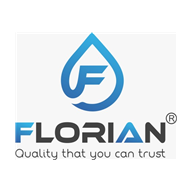
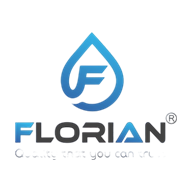
v5

diff --git a/src/components/brand/brand-mark.tsx b/src/components/brand/brand-mark.tsx
@@ -7,37 +7,27 @@ export function BrandMark({
   className,
   imageClassName,
   variant = "full",
-  tone = "default",
 }: {
   className?: string;
   imageClassName?: string;
   variant?: "full" | "mark" | "header";
-  /** Lockup sits on a light plate when the header behind it is dark. */
-  tone?: "default" | "onDark";
 }) {
   const isHeader = variant === "header";
   const isMark = variant === "mark";
-  const onDark = tone === "onDark";
 
   return (
     <div className={cn("flex min-w-0 items-center", className)}>
-      <div
-        className={cn(
-          "flex items-center justify-center",
-          onDark &&
-            "rounded-full bg-white p-2.5 shadow-[0_10px_28px_rgba(0,0,0,0.22)] ring-1 ring-white/80"
-        )}
-      >
+      <div className="flex items-center justify-center">
         {/* eslint-disable-next-line @next/next/no-img-element -- official PNG; skip Next image cache of the old generated mark */}
         <img
           src={logoSrc}
           alt={`${BRAND.name} logo`}
-          width={isHeader ? 44 : 1024}
-          height={isHeader ? 44 : 1024}
+          width={isHeader ? 71 : 358}
+          height={isHeader ? 56 : 283}
           className={cn(
             "object-contain",
             isHeader
-              ? "h-11 w-auto sm:h-12"
+              ? "h-14 w-auto"
               : isMark
                 ? "h-10 w-auto"
                 : "h-auto w-28 max-w-full sm:w-36",

diff --git a/src/lib/quotations/brand.ts b/src/lib/quotations/brand.ts
@@ -14,19 +14,19 @@ export const BRAND = {
   appName: "Florian — Quotations",
   poweredBy: "Powered by Dyzen Solar Technologies",
   logo: {
-    primary: "/brand/logo.jpeg",
-    width: 1024,
-    height: 1024,
-    icon: "/brand/logo.jpeg",
+    primary: "/brand/logo.png",
+    width: 358,
+    height: 283,
+    icon: "/brand/logo.png",
     iconWidth: 64,
-    iconHeight: 64,
-    login: "/brand/logo.jpeg",
-    loginWidth: 120,
-    loginHeight: 120,
-    watermark: "/brand/logo.jpeg",
+    iconHeight: 51,
+    login: "/brand/logo.png",
+    loginWidth: 144,
+    loginHeight: 114,
+    watermark: "/brand/logo.png",
     coverHome: "/brand/cover-home.jpg",
     nonSolarCover: "/brand/non-solar-cover.jpg",
-    paymentQr: "/brand/logo.jpeg",
+    paymentQr: "/brand/logo.png",
   },
   bank: {
     accountName: "FLORIAN",

diff --git a/src/components/brand/brand-watermark.tsx b/src/components/brand/brand-watermark.tsx
@@ -1,3 +1,5 @@
+import { BRAND } from "@/lib/brand";
+
 /** Centered page watermark — always visible behind UI chrome, hidden when printing. */
 export function BrandWatermark() {
   return (
@@ -7,7 +9,7 @@ export function BrandWatermark() {
     >
       {/* eslint-disable-next-line @next/next/no-img-element */}
       <img
-        src="/brand/logo.jpeg"
+        src={`${BRAND.logoPath}?v=${BRAND.logoCache}`}
         alt=""
         className="h-auto w-[min(72vw,36rem)] max-w-none select-none object-contain opacity-[0.04]"
         draggable={false}

diff --git a/src/lib/brand.ts b/src/lib/brand.ts
@@ -6,9 +6,9 @@ export const BRAND = {
   productLine: "Sales pipeline, quotations, and B2B trade",
   poweredBy: "Powered by Dyzen Solar Technologies",
   poweredByName: "Dyzen Solar Technologies",
-  logoPath: "/brand/logo.jpeg",
+  logoPath: "/brand/logo.png",
   /** Cache-bust when the official mark is replaced. */
-  logoCache: "florian-1",
+  logoCache: "florian-2",
 } as const;
 
 export const ROLE_LABELS: Record<string, string> = {

diff --git a/src/app/login/page.client.tsx b/src/app/login/page.client.tsx
@@ -67,7 +67,7 @@ export default function LoginPage() {
         />
 
         <div className="relative z-10">
-          <BrandMark tone="onDark" imageClassName="h-auto w-36 sm:w-40" />
+          <BrandMark imageClassName="h-auto w-36 sm:w-40" />
         </div>
 
         <div className="relative z-10 fade-slide-up">

diff --git a/docs/florian-sales-plan.md b/docs/florian-sales-plan.md
@@ -80,7 +80,7 @@ Keep from FRS, because the four features sit on this spine:
 
 ## 4. Brand
 
-Reuse the inventory logo and tokens. Source: `Apps/Florian/public/logo.jpeg` (also `Apps/Florian/files/Florian_Logo.jpeg`). Tagline: *Quality that you can trust*.
+Official lockup is `public/brand/logo.png`. Theme tokens stay cyan `#1BA8E0` / navy `#163A5C` / soft `#E4F5FC`. Tagline: *Quality that you can trust*.
 
 | Token | Value |
 |-------|--------|
@@ -91,7 +91,7 @@ Reuse the inventory logo and tokens. Source: `Apps/Florian/public/logo.jpeg` (al
 | Soft tint | `#E4F5FC` |
 | Page background | `#FAFAFA` |
 | Surface | `#FFFFFF` |
-| Logo | `public/brand/logo.jpeg` (copy from inventory; also keep `docs/logo.jpeg`) |
+| Logo | `public/brand/logo.png` (official lockup) |
 | Quote prefix | `FLR` |
 | Account code | `FLR` + integer, unique, searchable. Start number in Settings. |
 | Portal prefix | None |

diff --git a/README.md b/README.md
@@ -4,7 +4,7 @@ Sales pipeline, quotations, and B2B trade for Florian. Forked from FRS Solar. Pl
 
 Inventory stays in `Apps/Florian`. This app does not share that database.
 
-**Brand:** cyan `#1BA8E0` / navy `#163A5C` / soft `#E4F5FC`. Logo: `public/brand/logo.jpeg`. Account and quote prefix `FLR`.
+**Brand:** cyan `#1BA8E0` / navy `#163A5C` / soft `#E4F5FC`. Logo: `public/brand/logo.png`. Account and quote prefix `FLR`.
 
 ## Setup
 

diff --git a/DELIVERABLE.md b/DELIVERABLE.md
@@ -5,7 +5,7 @@ Working source is `Apps/Florian-Sales`. Refresh this package with `sync-from-app
 ## Included
 
 - Next.js app (`src`, `public`, config)
-- Florian logo and theme (`public/brand/logo.jpeg`)
+- Florian logo and theme (`public/brand/logo.png`)
 - Supabase migrations and `supabase/run_all_migrations.sql`
 - `.env.example`
 
